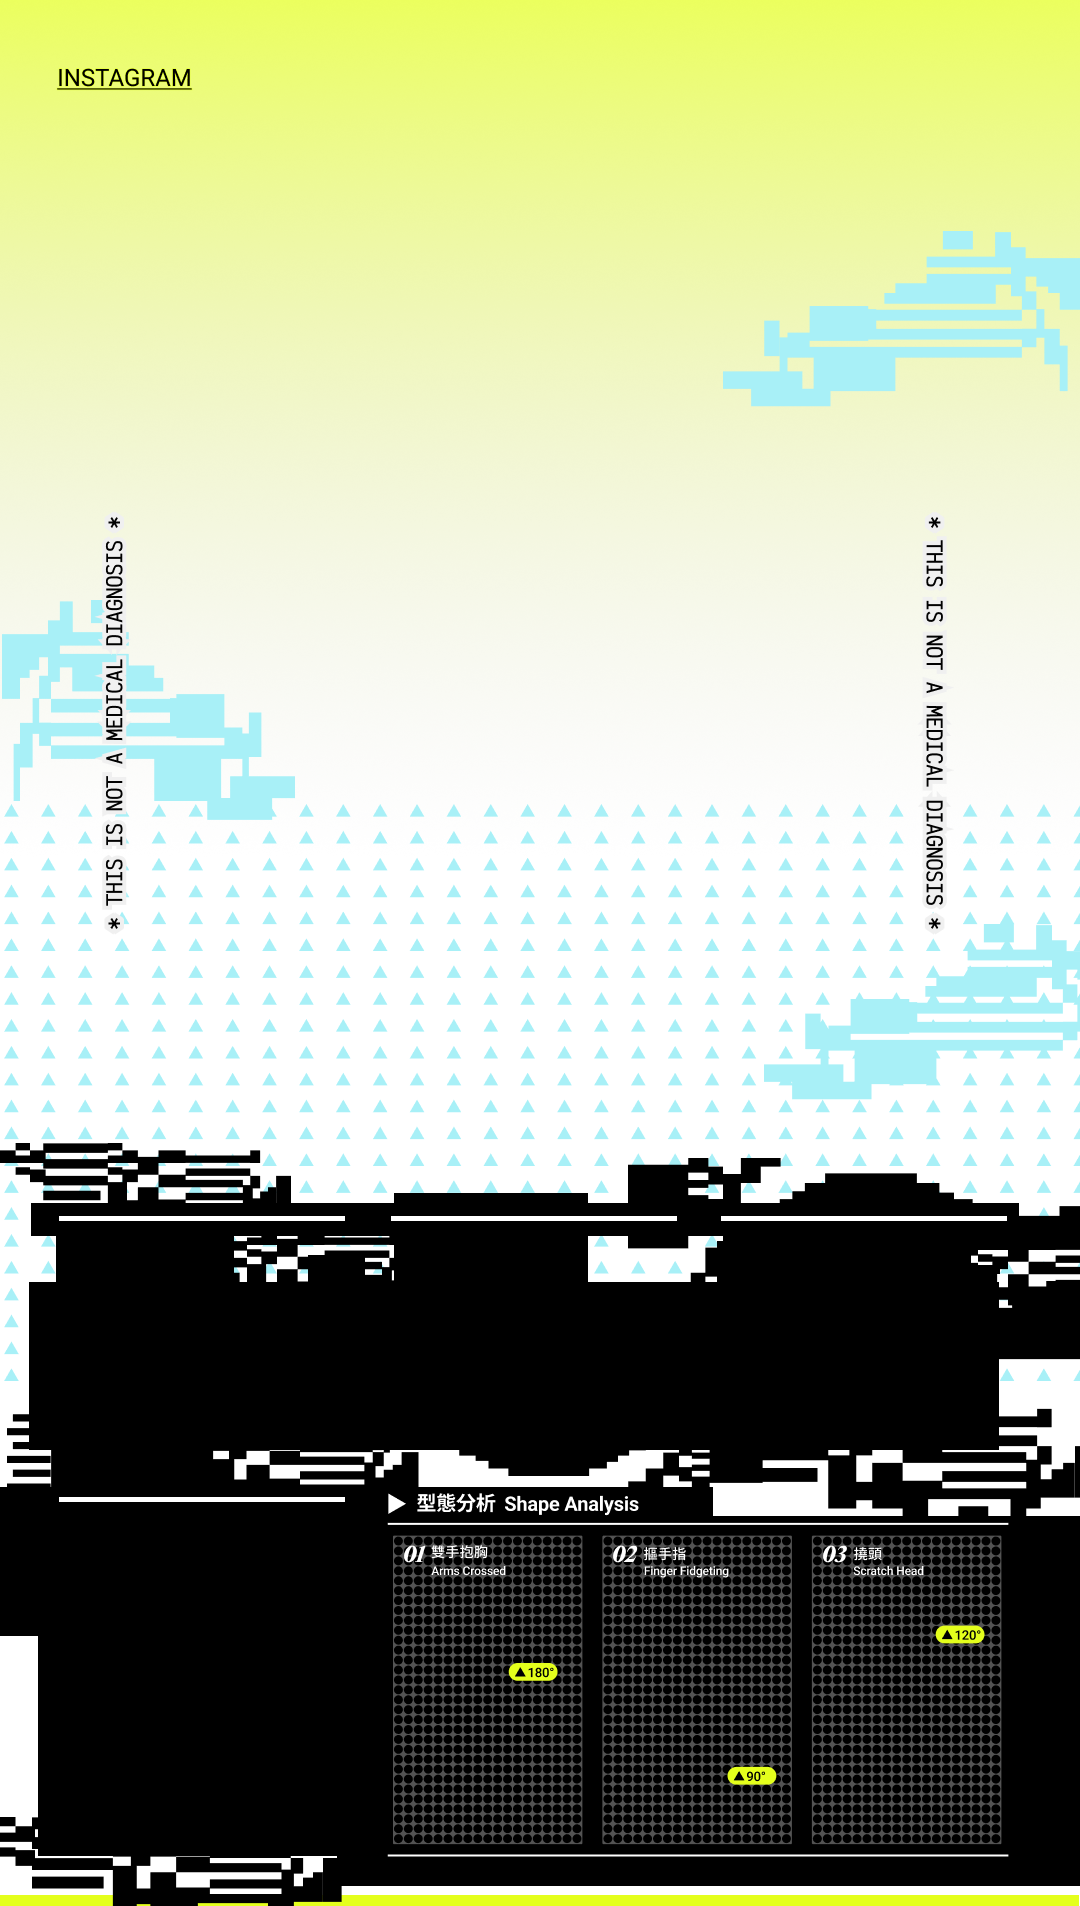
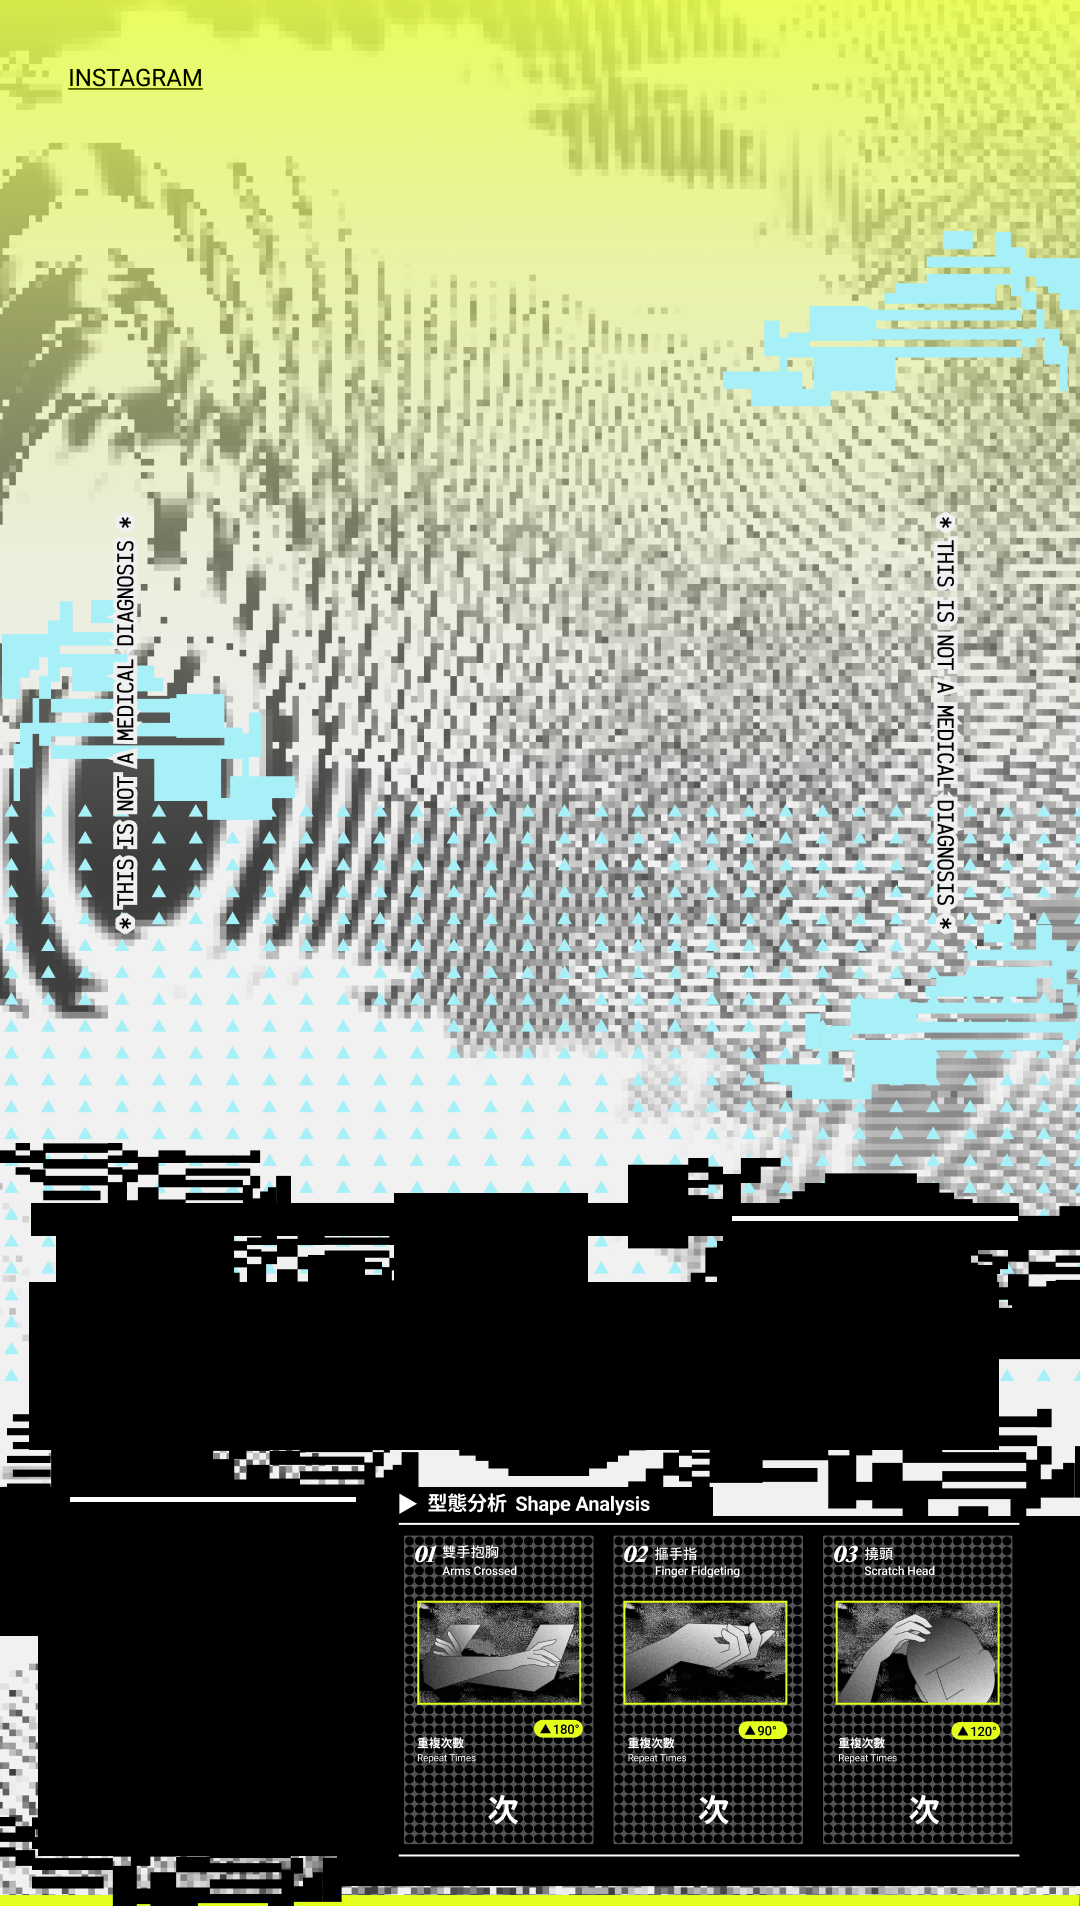
test
test

diff --git a/Howlong/All_v2/js/ui.js b/Howlong/All_v2/js/ui.js
@@ -247,13 +247,69 @@ function checkAutoNavigation() {
   }
 }
 
+// ===== Prefer external camera helper =====
+async function getPreferredVideoConstraints() {
+  let tempStream = null;
+
+  try {
+    // 先喚醒權限，讓 device label 讀得到
+    tempStream = await navigator.mediaDevices.getUserMedia({
+      video: true,
+      audio: false,
+    });
+
+    const devices = await navigator.mediaDevices.enumerateDevices();
+    const videoInputs = devices.filter((d) => d.kind === "videoinput");
+
+    // 找外接鏡頭關鍵字
+    const preferred = videoInputs.find((d) => {
+      const label = String(d.label || "").toLowerCase();
+      return (
+        label.includes("usb") ||
+        label.includes("webcam") ||
+        label.includes("external") ||
+        label.includes("logitech") ||
+        label.includes("brio") ||
+        label.includes("c920") ||
+        label.includes("c922") ||
+        label.includes("c930") ||
+        label.includes("streamcam") ||
+        label.includes("obsbot") ||
+        label.includes("elgato") ||
+        label.includes("avermedia")
+      );
+    });
+
+    if (preferred?.deviceId) {
+      console.log("[Using External Camera]", preferred.label);
+      return {
+        video: {
+          deviceId: { exact: preferred.deviceId },
+        },
+        audio: false,
+      };
+    }
+  } catch (err) {
+    console.warn("[External Camera Detect Failed]", err);
+  } finally {
+    if (tempStream) {
+      tempStream.getTracks().forEach((track) => track.stop());
+    }
+  }
+
+  // 找不到外接鏡頭就維持你原本設定
+  console.log("[Using Default Camera]");
+  return {
+    video: { facingMode: "user" },
+    audio: false,
+  };
+}
+
 // ===== Camera =====
 async function startCamera() {
   try {
-    const stream = await navigator.mediaDevices.getUserMedia({
-      video: { facingMode: "user" },
-      audio: false,
-    });
+    const constraints = await getPreferredVideoConstraints();
+    const stream = await navigator.mediaDevices.getUserMedia(constraints);
 
     videoEl.srcObject = stream;
     await videoEl.play();
@@ -322,6 +378,11 @@ async function goNextPage(reason) {
     sessionStorage.setItem("r_actionCount", String(actionCount));
     sessionStorage.setItem("r_waitingPct", String(waitingPct));
 
+    // 三個紅框專用數字
+    sessionStorage.setItem("r_count_arms", String(actionCounts.arms || 0)); // 雙手抱胸
+    sessionStorage.setItem("r_count_legs", String(actionCounts.legs || 0)); // 摳手指（你現在若先借用 legs）
+    sessionStorage.setItem("r_count_neck", String(actionCounts.neck || 0)); // 手摸脖子
+
     // ===== (E) 截圖：本機 dataURL +（可選）上傳 Firebase 拿 URL =====
     const shotDataURL = captureCompositeShot();
 
@@ -353,6 +414,12 @@ async function goNextPage(reason) {
     params.set("actionType", actionType);
     params.set("actionCount", String(actionCount));
     params.set("waitingPct", String(waitingPct));
+
+    // 三個紅框專用數字
+    params.set("countArms", String(actionCounts.arms || 0));
+    params.set("countLegs", String(actionCounts.legs || 0));
+    params.set("countNeck", String(actionCounts.neck || 0));
+
     if (shotURL) params.set("shot", shotURL);
 
     const share = `report.html?${params.toString()}`;

diff --git a/Howlong/All_v2/js/report.js b/Howlong/All_v2/js/report.js
@@ -164,11 +164,24 @@ const actionCount =
       getParamOrStorage("count", "r_actionCount", "0"),
   ) || 0;
 
+const countArmsEl = document.getElementById("countArms");
+const countLegsEl = document.getElementById("countLegs");
+const countNeckEl = document.getElementById("countNeck");
+
 const waitingPct =
   Number(
     getParamOrStorage("waitingPct", "r_waitingPct", "") ||
       getParamOrStorage("pct", "r_waitingPct", "0"),
   ) || 0;
+
+const countArms =
+  Number(getParamOrStorage("countArms", "r_count_arms", "0")) || 0;
+
+const countLegs =
+  Number(getParamOrStorage("countLegs", "r_count_legs", "0")) || 0;
+
+const countNeck =
+  Number(getParamOrStorage("countNeck", "r_count_neck", "0")) || 0;
 
 const serial = getParamOrStorage("serial", "r_serial", "00000001");
 
@@ -273,6 +286,10 @@ if (pctEl) pctEl.textContent = `${clamp(waitingPct, 0, 99)}%`;
 
 if (actIconEl) actIconEl.src = ACTION_ICON[actionType] || ACTION_ICON.neck;
 if (actCountEl) actCountEl.textContent = String(actionCount).padStart(2, "0");
+
+if (countArmsEl) countArmsEl.textContent = String(countArms).padStart(2, "0");
+if (countLegsEl) countLegsEl.textContent = String(countLegs).padStart(2, "0");
+if (countNeckEl) countNeckEl.textContent = String(countNeck).padStart(2, "0");
 
 // --- Shot (core) ---
 if (shotEl) {

diff --git a/Howlong/All_v2/report.html b/Howlong/All_v2/report.html
@@ -59,7 +59,7 @@
           <div class="card" id="cardTime">
             <div class="card-title-zh">等待時間</div>
             <div class="card-title-en">Waiting Time (M:S)</div>
-            <div class="card-value" id="reportTime">00:00</div>
+            <div class="card-value" id="reportTime"></div>
           </div>
 
           <!-- Behavior Repeat -->
@@ -67,7 +67,7 @@
             <div class="card-title-zh">行為重複次數</div>
             <div class="card-title-en">Behavior Repeat Times</div>
             <div class="repeat-row">
-              <div id="reportActionCount" class="repeat-num">00</div>
+              <div id="reportActionCount" class="repeat-num-01">00</div>
               <div class="repeat-num-ch">次</div>
             </div>
           </div>
@@ -98,7 +98,11 @@
           <div class="ch-word" id="engCh">穩定等待</div>
           <div class="eng-word" id="engEn">Baseline</div>
         </div>
-
+        <div class="repeat-number">
+          <div class="repeat-num" id="countArms">00</div>
+          <div class="repeat-num" id="countLegs">00</div>
+          <div class="repeat-num" id="countNeck">00</div>
+        </div>
         <!-- 底部英文字（固定） -->
       </div>
     </div>

diff --git a/Howlong/All_v2/css/report.css b/Howlong/All_v2/css/report.css
@@ -380,7 +380,7 @@ body {
   height: auto;
   display: block;
 }
-.repeat-num {
+.repeat-num-01 {
   font-family: "PP Editorial New", serif;
   font-weight: 800; /* UltraBold */
   font-style: italic; /* Italic */
@@ -421,4 +421,23 @@ body {
   width: 1080px;
   height: 1920px;
   transform-origin: top left; /* ✅ 很重要 */
+}
+
+.repeat-number {
+  display: flex;
+  justify-content: center;
+  position: relative;
+  top: 40.8%;
+  left: 10.9%;
+  column-gap: 140px;
+  letter-spacing: 2px;
+  font-family: "PP Editorial New", serif;
+  font-weight: 800; /* UltraBold */
+  font-style: italic; /* Italic */
+  font-size: 104px;
+  color: #ffffff;
+  line-height: 1;
+}
+.repeat-num {
+  font-size: 52px;
 }
